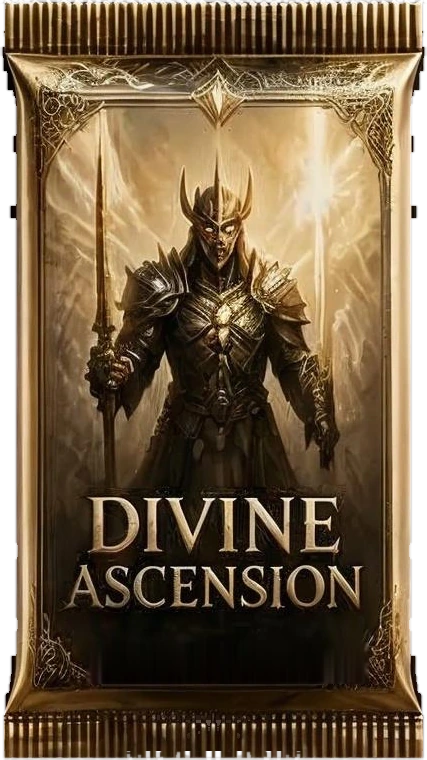
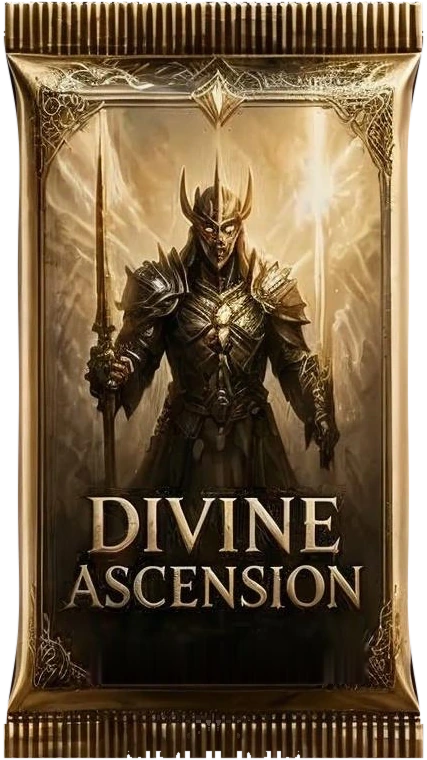
Prismatic packs: smooth outlines

diff --git a/src/i18n/cs/data/patchNotes.ts b/src/i18n/cs/data/patchNotes.ts
@@ -4,7 +4,7 @@ const notes: PatchNotesOverlay = {
   '0.31.1': {
     title: 'Úpravy prismatických balíčků',
     summary: 'Čistěji oříznuté obrázky balíčků a prismatické balíčky v obchodě jako první.',
-    sections: [['Divine Ascension: zlatý lesk teď plynule vjede zpoza balíčku a zase zmizí, místo aby skákal.', 'Stars Eternal a Divine Ascension: obrázky balíčků jsou čistě oříznuté ze všech stran.', 'Obchod: prismatické balíčky jsou první, před Dragon Realm.']],
+    sections: [['Divine Ascension: zlatý lesk teď plynule vjede zpoza balíčku a zase zmizí, místo aby skákal.', 'Stars Eternal a Divine Ascension: obrázky balíčků mají hladké a rovnoměrné okraje ze všech stran.', 'Obchod: prismatické balíčky jsou první, před Dragon Realm.']],
   },
   '0.31.0': {
     title: 'Prismatické balíčky',

diff --git a/src/data/patchNotes.ts b/src/data/patchNotes.ts
@@ -23,7 +23,7 @@ export const PATCH_NOTES: PatchNote[] = [
     date: '2026-10-08',
     title: 'Prismatic pack touch-ups',
     summary: 'Cleaner pack art and the Prismatic packs first in the Shop.',
-    sections: [{ kind: 'fixed', items: ['Divine Ascension: the gold gleam now glides in from off the pack and fades out smoothly instead of jumping.', 'Stars Eternal and Divine Ascension: the pack art is cut cleanly on every side.', 'Shop: the Prismatic packs come first, before Dragon Realm.'] }],
+    sections: [{ kind: 'fixed', items: ['Divine Ascension: the gold gleam now glides in from off the pack and fades out smoothly instead of jumping.', 'Stars Eternal and Divine Ascension: the pack art has smooth, even edges on every side.', 'Shop: the Prismatic packs come first, before Dragon Realm.'] }],
     commits: [],
   },
   {
